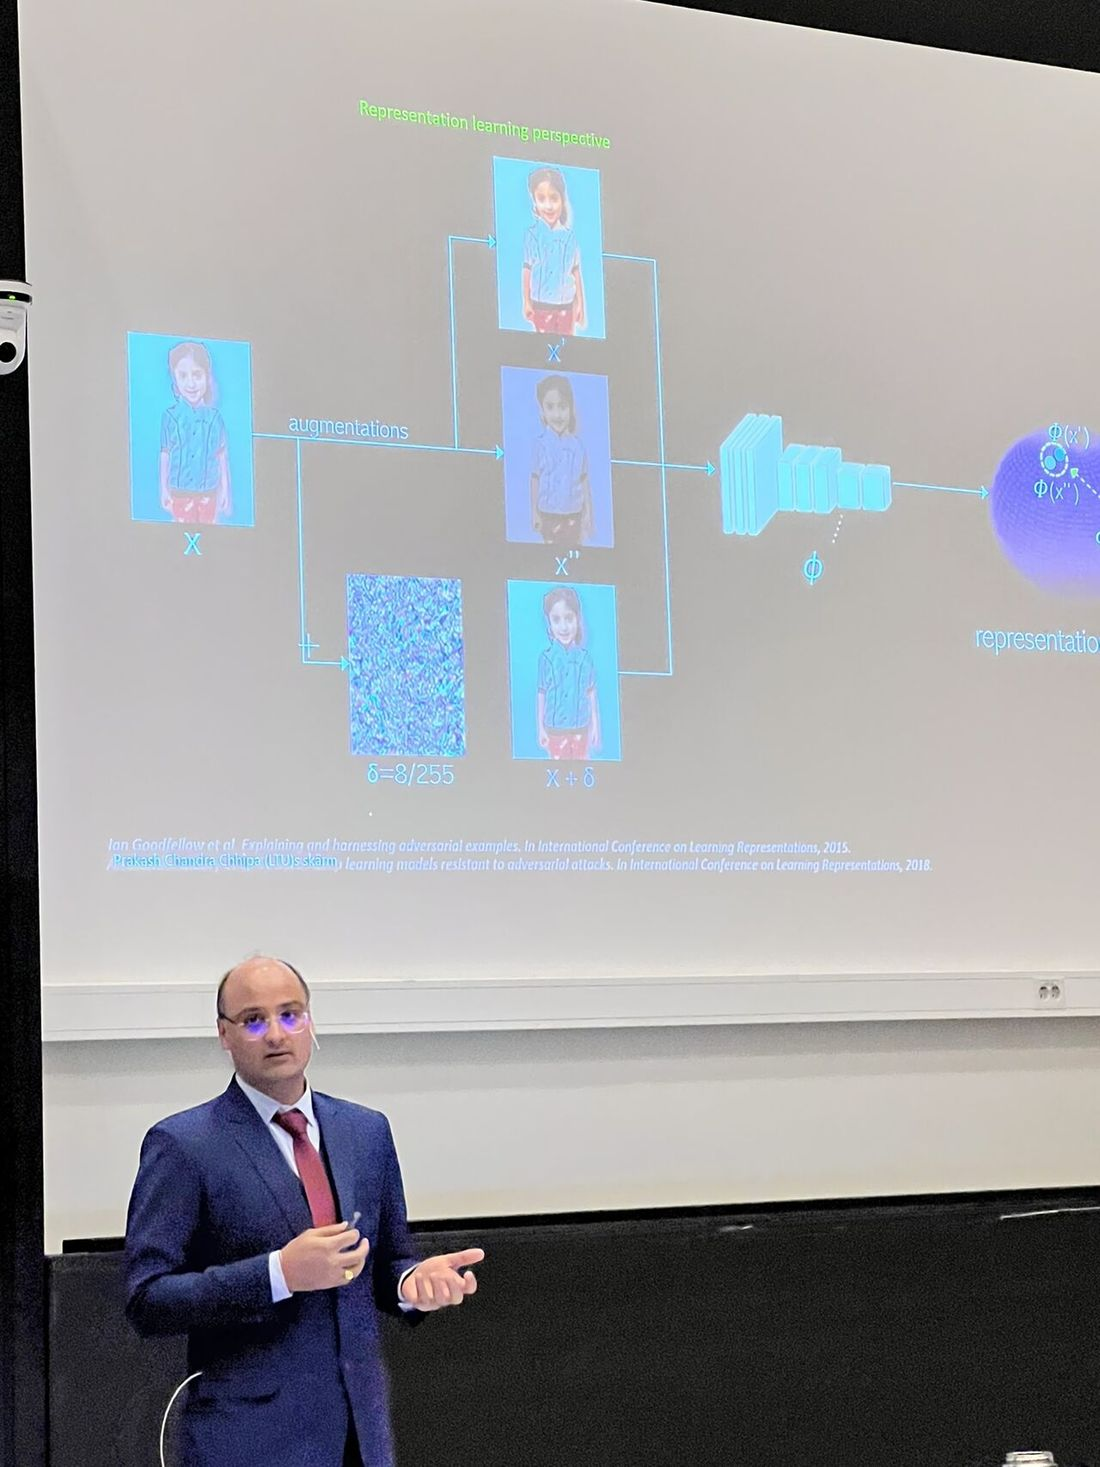
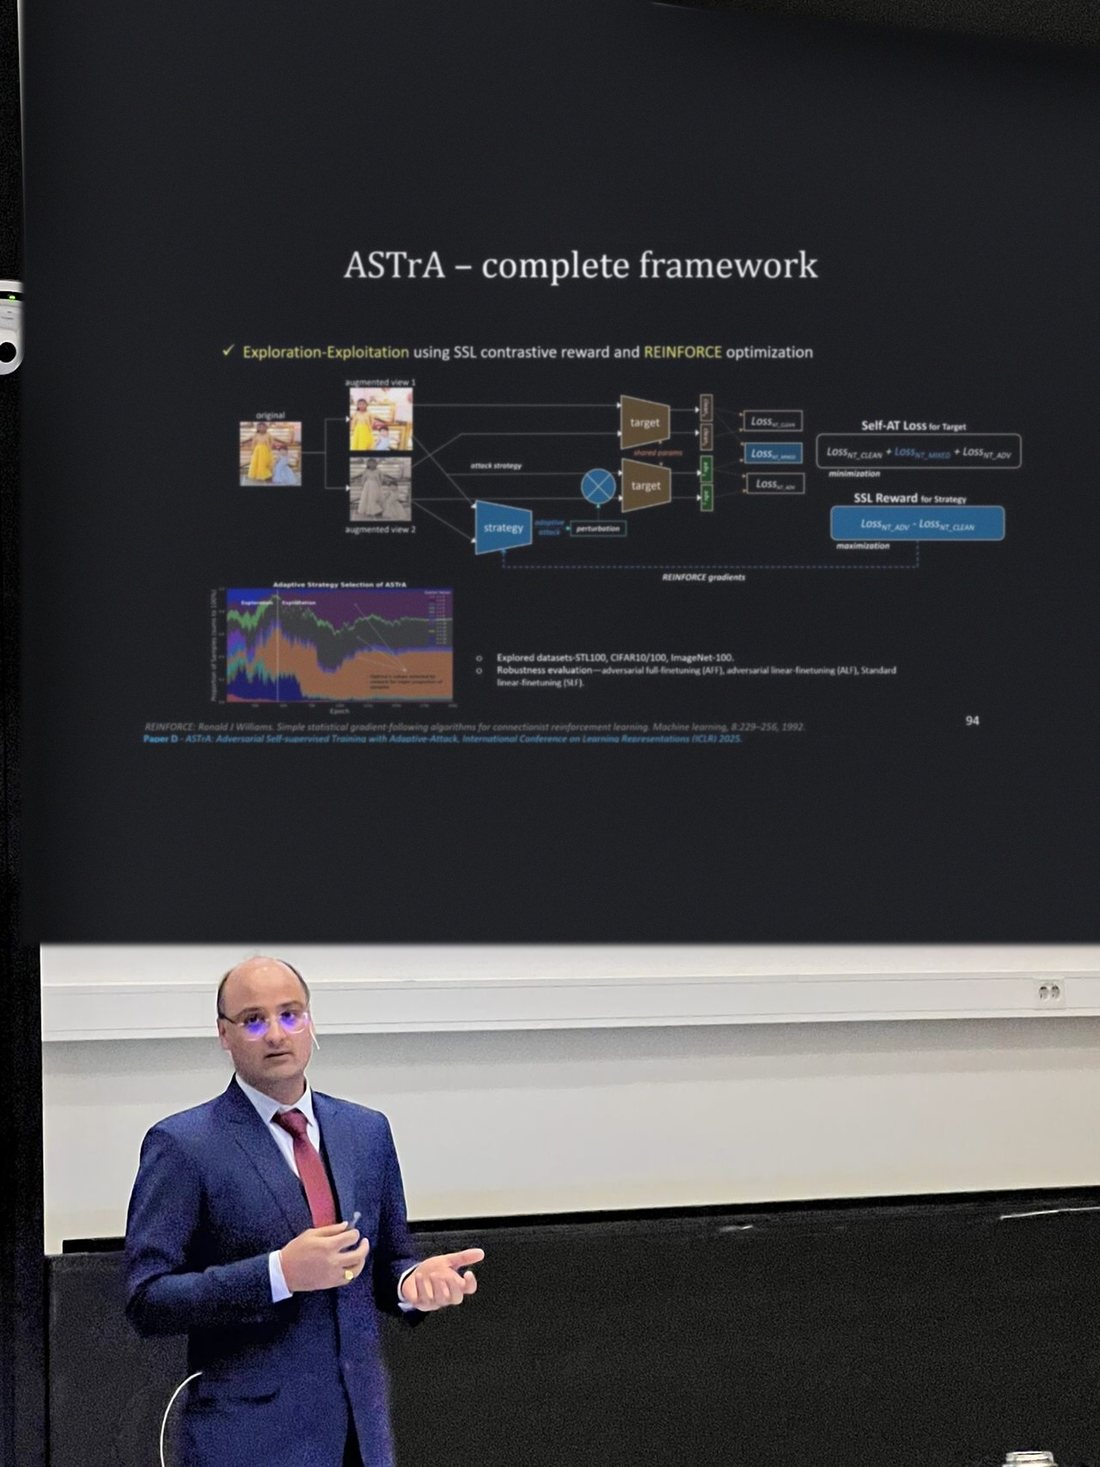
Homepage: PhD defence photo with ASTrA slide, EMBL-EBI tile, PlayPrismAI credit
- Replace the projected slide behind the public PhD defence photo with the ASTrA framework slide
- Caption the hero photo as the public PhD defence at LTU
- First 'work travels' tile is EMBL-EBI Cambridge (2022), not MBZUAI
- Credit Björn Flintberg and other RI.SE and SEAIF team members for PlayPrismAI support

diff --git a/_pages/about.html b/_pages/about.html
@@ -30,8 +30,8 @@ social: true
     </a>
   </div>
   <figure class="pf-portrait">
-    <img src="{{ '/assets/img/pf/portrait.jpg' | relative_url }}" alt="Prakash Chandra Chhipa presenting research on representation learning" loading="eager">
-    <figcaption>Robust representation learning · invited lecture</figcaption>
+    <img src="{{ '/assets/img/pf/portrait.jpg' | relative_url }}" alt="Prakash Chandra Chhipa at his public PhD defence, Luleå University of Technology" loading="eager">
+    <figcaption>Public PhD defence · Luleå University of Technology · 2025</figcaption>
   </figure>
 </section>
 
@@ -73,7 +73,7 @@ social: true
         models, wrapped in a multi-user studio platform with drill-down chat and a one-page studio memo.</p>
       <div class="pf-stack"><span>LangGraph</span><span>Qwen2.5-32B</span><span>BGE-M3</span><span>RAG</span><span>Next.js</span><span>On-prem · GDPR-ready</span></div>
       <p class="pf-cap" style="margin-top: 22px; line-height: 1.8; display: block">
-        Designed, architected and built by me · with support from RI.SE and SEAIF team members
+        Designed, architected and built by me · with support from Björn Flintberg and other RI.SE and SEAIF team members
       </p>
       <p style="margin-top: 10px"><a class="link" href="https://playprismai.se" target="_blank" rel="noopener">playprismai.se — launching soon →</a></p>
     </div>
@@ -254,8 +254,8 @@ social: true
     Invited talks at MBZUAI, EMBL-EBI and MIRAI; a research visit to UCF CRCV; papers presented at ICLR, ECCV, ICCV, WACV and EurIPS across five continents.
   </p>
   <div class="pf-tiles">
-    <figure><div class="img"><img src="{{ '/assets/img/pf/mbzuai.jpg' | relative_url }}" alt="Invited talk at MBZUAI, Abu Dhabi" loading="lazy"></div>
-      <figcaption><b>MBZUAI</b><span class="pf-cap">Abu Dhabi · Invited talk · 2025</span></figcaption></figure>
+    <figure><div class="img"><img src="{{ '/assets/img/pf/embl.jpg' | relative_url }}" alt="Invited talk at EMBL-EBI, Cambridge, UK" loading="lazy"></div>
+      <figcaption><b>EMBL-EBI</b><span class="pf-cap">Cambridge, UK · Invited talk · 2022</span></figcaption></figure>
     <figure><div class="img"><img src="{{ '/assets/img/pf/ucf.jpg' | relative_url }}" alt="Visiting researcher at UCF CRCV" loading="lazy"></div>
       <figcaption><b>UCF · CRCV</b><span class="pf-cap">Orlando · Visiting researcher · 2024</span></figcaption></figure>
     <figure><div class="img"><img src="{{ '/assets/img/pf/iclr.jpg' | relative_url }}" alt="ICLR 2025 in Singapore" loading="lazy"></div>
